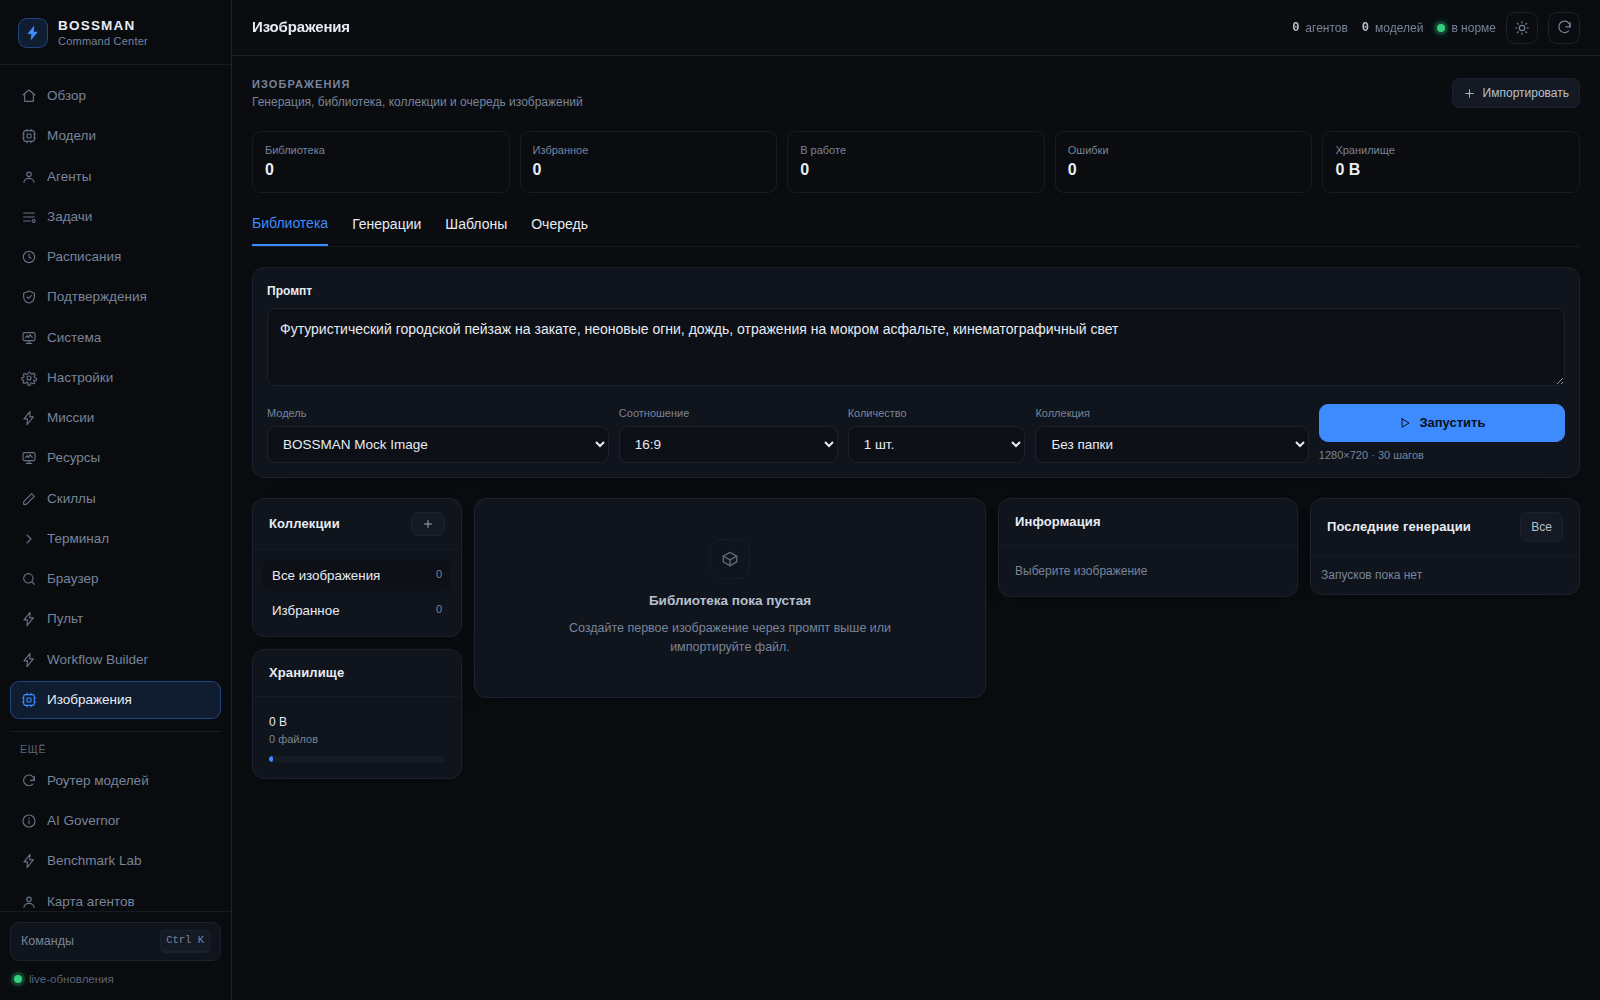
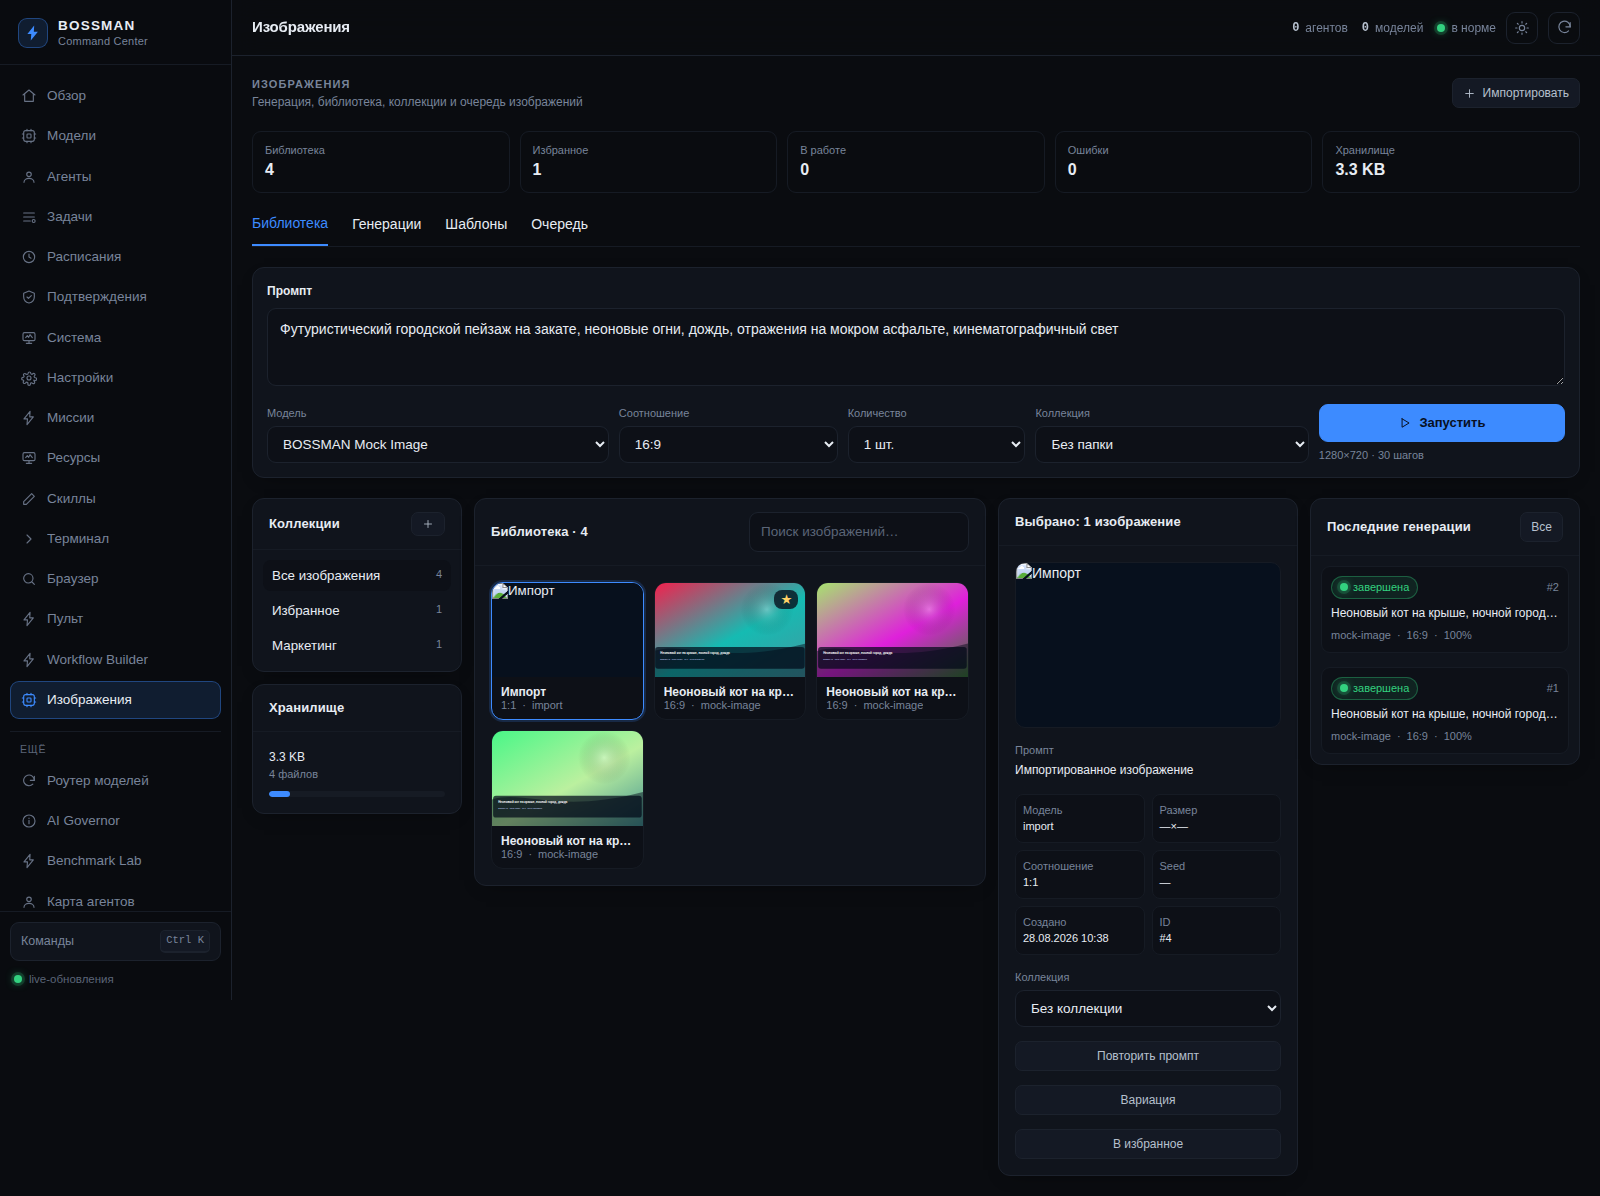
chore: снимок текущего состояния (фоновые агенты ещё пишут)
Агент по изображениям дорабатывает images.js по итогам живой приёмки,
исследовательский агент дописывает ТЗ по claude-context. Тесты изображений
зелёные на этом состоянии. Ожидаются ещё коммиты по мере завершения агентов.

Claude-Session: https://claude.ai/code/session_013HVgXpKA5MidjSd3fpQxxi

diff --git a/command-center/ui/pages/images.js b/command-center/ui/pages/images.js
@@ -553,6 +553,14 @@ function ensureStyles() {
     @media(max-width:1100px){.images-workspace{grid-template-columns:180px minmax(0,1fr)}.images-inspector,.images-recent{grid-column:2}.images-grid{grid-template-columns:repeat(2,minmax(0,1fr))}.images-composer-grid{grid-template-columns:1fr 1fr 1fr}.images-runbox{grid-column:auto}}
     @media(max-width:720px){.images-stats{grid-template-columns:repeat(2,minmax(0,1fr))}.images-composer-grid{grid-template-columns:1fr 1fr}.images-workspace{grid-template-columns:1fr}.images-side,.images-inspector,.images-recent{grid-column:1}.images-grid{grid-template-columns:repeat(2,minmax(0,1fr))}.images-search{max-width:140px}}
     @media(max-width:430px){.images-grid{grid-template-columns:1fr 1fr}.images-composer-grid{grid-template-columns:1fr}.images-tabs{gap:16px}.images-stats{grid-template-columns:1fr 1fr}}
+    /* Тач-таргеты ≥44px на узких экранах — общее правило проекта (см. ui/mobile.css). */
+    @media(max-width:900px){
+      .images-tab{min-height:44px;padding:0 2px 10px}
+      .images-collection-row{min-height:44px;align-items:center}
+      .images-composer .btn,.images-inspector .btn,.images-recent .btn,
+      .images-job-row .btn,.images-side .btn,.images-library .btn{min-height:44px}
+      .images-composer .input,.images-inspector .input{min-height:44px}
+    }
   `;
   document.head.appendChild(style);
 }

diff --git a/docs/research/claude-context.md b/docs/research/claude-context.md
@@ -225,46 +225,42 @@ claude-context MCP:
 
 1. **Чанк = синтаксическая единица, а не N символов.** Их главный работающий
    принцип. У нас для Python это делается **без tree-sitter** — стандартным
-   модулем `ast` (проверено, см. §8.2). Для JS придётся либо взять регексп по
-   фигурным скобкам, либо позже добавить tree-sitter.
-2. **Заголовок чанка с путём и квалифицированным именем.** Строка вида
-   `bcc/tools.py :: decide_effect` перед телом чанка резко поднимает лексический
-   скор — это версия их приёма с `relativePath` в метаданных, но у нас она ещё
-   и попадает в BM25.
-3. **Разбиение идентификаторов на термы** (`decide_effect` → `decide`, `effect`;
-   camelCase тоже). У них этого нет — за них это делает анализатор Milvus.
-   У нас это 15 строк и даёт основной прирост качества.
-4. **Дедуп по перекрытию диапазонов строк** (`deduplicateResults`) — 20 строк,
-   переносится дословно по смыслу.
-5. **Фазовый прогресс и фоновая индексация**, чтобы инструмент не блокировал
-   tool-loop: `index_codebase` возвращается сразу, статус отдельным вызовом.
-6. **Аддитивные игнор-паттерны** с чтением `.gitignore` и глобального
-   `.contextignore` — у нас сейчас жёсткий `DEFAULT_EXCLUDED_DIRS`.
-7. **Ошибка эмбеддинга останавливает индексацию целиком**, а не молча пишет
-   частичный индекс — хорошая дисциплина, пригодится, если dense появится.
+   модулем `ast` (проверено, §8.2). Для JS — регексп по фигурным скобкам либо
+   позже tree-sitter.
+2. **Заголовок чанка `путь :: квалифицированное имя`** в теле чанка. У них
+   `relativePath` живёт в метаданных; у нас он ещё и попадает в BM25 и резко
+   поднимает скор.
+3. **Разбиение идентификаторов на термы** (`decide_effect` → `decide`,
+   `effect`; camelCase тоже). У них этого нет — делает анализатор Milvus.
+   У нас 15 строк и основной прирост качества.
+4. **Дедуп по перекрытию диапазонов строк** (`deduplicateResults`) — ~20 строк.
+5. **Фоновая индексация с фазовым статусом**, чтобы инструмент не блокировал
+   tool-loop: `index` возвращается сразу, статус — отдельным вызовом.
+6. **Аддитивные игнор-паттерны** с чтением `.gitignore` и `.contextignore` —
+   у нас сейчас жёсткий `DEFAULT_EXCLUDED_DIRS`.
+7. **Ошибка эмбеддинга рушит индексацию целиком**, а не пишет частичный
+   индекс — дисциплина, которая пригодится, если dense появится.
 
 ---
 
 ## 6. Что НЕ берём и почему
 
-1. **Milvus / Zilliz Cloud.** Отдельный сервис (в docker-compose это три
+1. **Milvus / Zilliz Cloud.** Отдельный сервис (в docker-compose три
    контейнера: milvus + etcd + minio) ради 1359 чанков. На машине с общей
-   памятью CPU/GPU это прямой отъём памяти у моделей. Категорически нет.
-2. **Сам пакет `@zilliz/claude-context-core` как библиотеку.** Он бесполезен
-   без Milvus: конструктор `Context` бросает исключение, если `vectorDatabase`
-   не передан, а передать нечего.
-3. **tree-sitter с девятью нативными грамматиками.** Node-зависимость с
-   компиляцией node-gyp в питоновом проекте. Для Python `ast` из stdlib даёт
-   то же самое и точнее.
-4. **Их AST-сплиттер как алгоритм.** Из-за вложенного обхода он раздувает
-   корпус в **1.69 раза** и портит `startLine` (§2.2, §8.1). Мы делаем плоско:
-   верхнеуровневые `def`/`class`, а большой класс — заголовок + методы отдельно.
+   памятью CPU/GPU это прямой отъём памяти у моделей. Нет.
+2. **Пакет `@zilliz/claude-context-core` как библиотеку.** Бесполезен без
+   Milvus: `Context` бросает исключение без `vectorDatabase`, а передать нечего.
+3. **tree-sitter с девятью нативными грамматиками** — node-gyp-сборка в
+   питоновом проекте. Для Python stdlib `ast` даёт то же и точнее.
+4. **Их AST-сплиттер как алгоритм** — раздувает корпус в **1.69 раза** и портит
+   `startLine` (§2.2, §8.1). Мы делаем плоско: верхнеуровневые `def`/`class`,
+   большой класс — заголовок + методы отдельно.
 5. **VS Code и Chrome расширения** — вне нашего контура.
 6. **`ClusterManager` / авторезолв адреса по токену** — сетевой вызов на
-   `api.cloud.zilliz.com` при старте. Нам не нужен.
-7. **Их фоновый sync каждые 5 минут** — полное перечитывание и хеширование
-   всего репозитория каждые 300 секунд в фоне процесса. Наша инкрементальность
-   должна запускаться по событию (после коммита / по явному вызову), а не по таймеру.
+   `api.cloud.zilliz.com` при старте.
+7. **Фоновый sync каждые 5 минут** — полное перечитывание и хеширование всего
+   репозитория каждые 300 секунд. Наша инкрементальность должна запускаться по
+   событию (после коммита / по явному вызову), а не по таймеру.
 
 ---
 
@@ -310,8 +306,8 @@ claude-context MCP:
 * `code_index.py` — форк-по-мотивам `local_index.py`: та же BM25-математика
   (`k1`, `b`, idf, `_rebuild_postings`), тот же `save`/`load` JSON с
   `INDEX_VERSION`, та же инкрементальность по `sha256`. Меняется **только
-  чанкер**: `chunk_markdown` → `chunk_python` (stdlib `ast`) и
-  `chunk_lines` (для `.js` и прочего). Прототип написан и замерен (§8.2).
+  чанкер**: `chunk_markdown` → `chunk_python` (stdlib `ast`) + `chunk_lines`
+  (для `.js` и прочего). Прототип написан и замерен (§8.2).
 * `tools_code.py` — `Feature` с тремя `ToolSpec`:
 
 | `name` | `category` | `permission` | `default_effect` | `source` |
